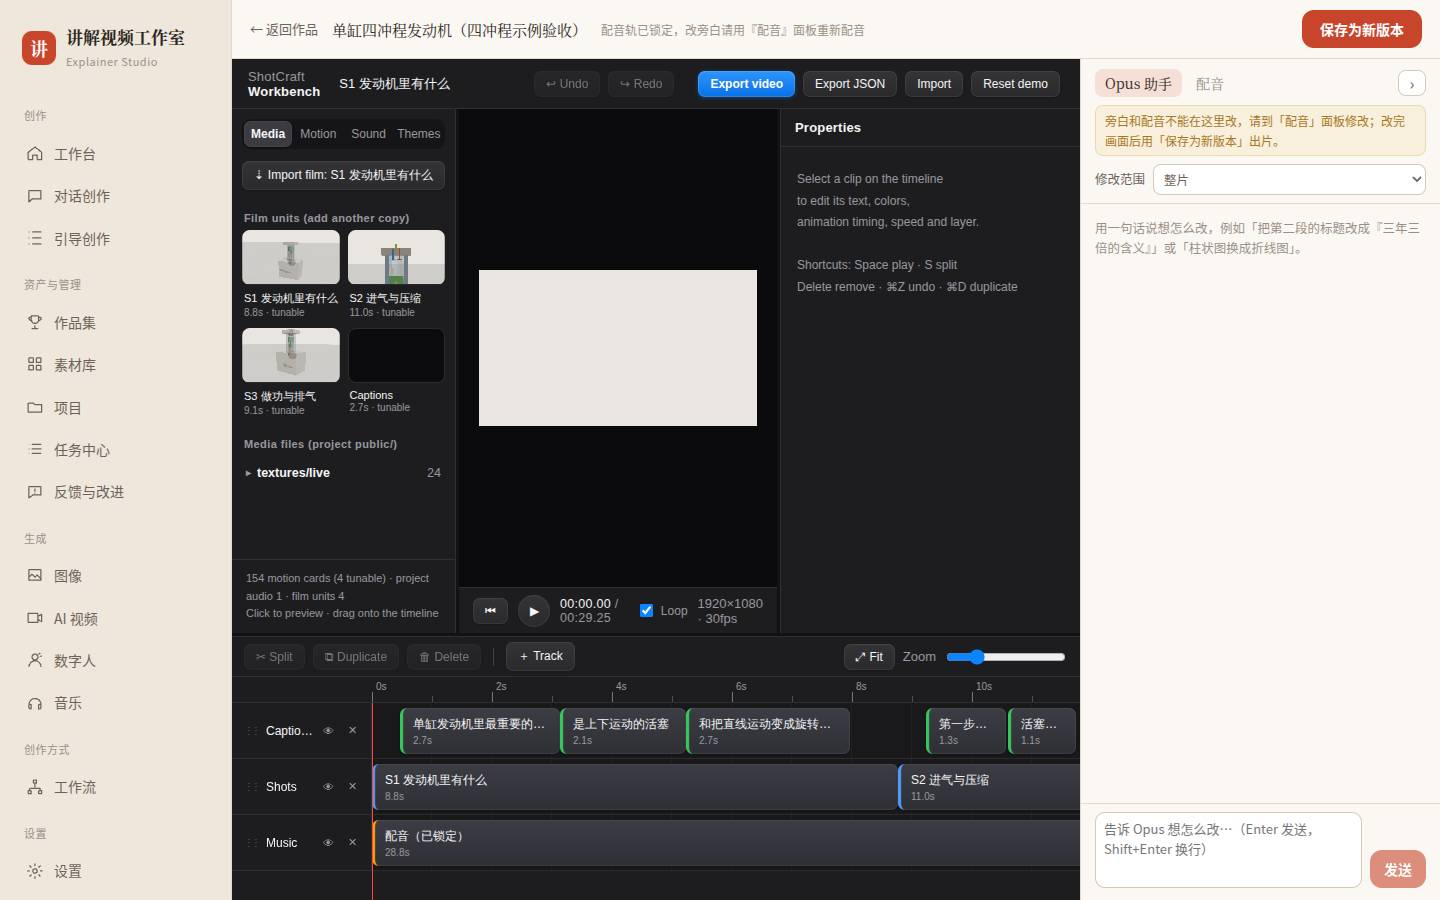
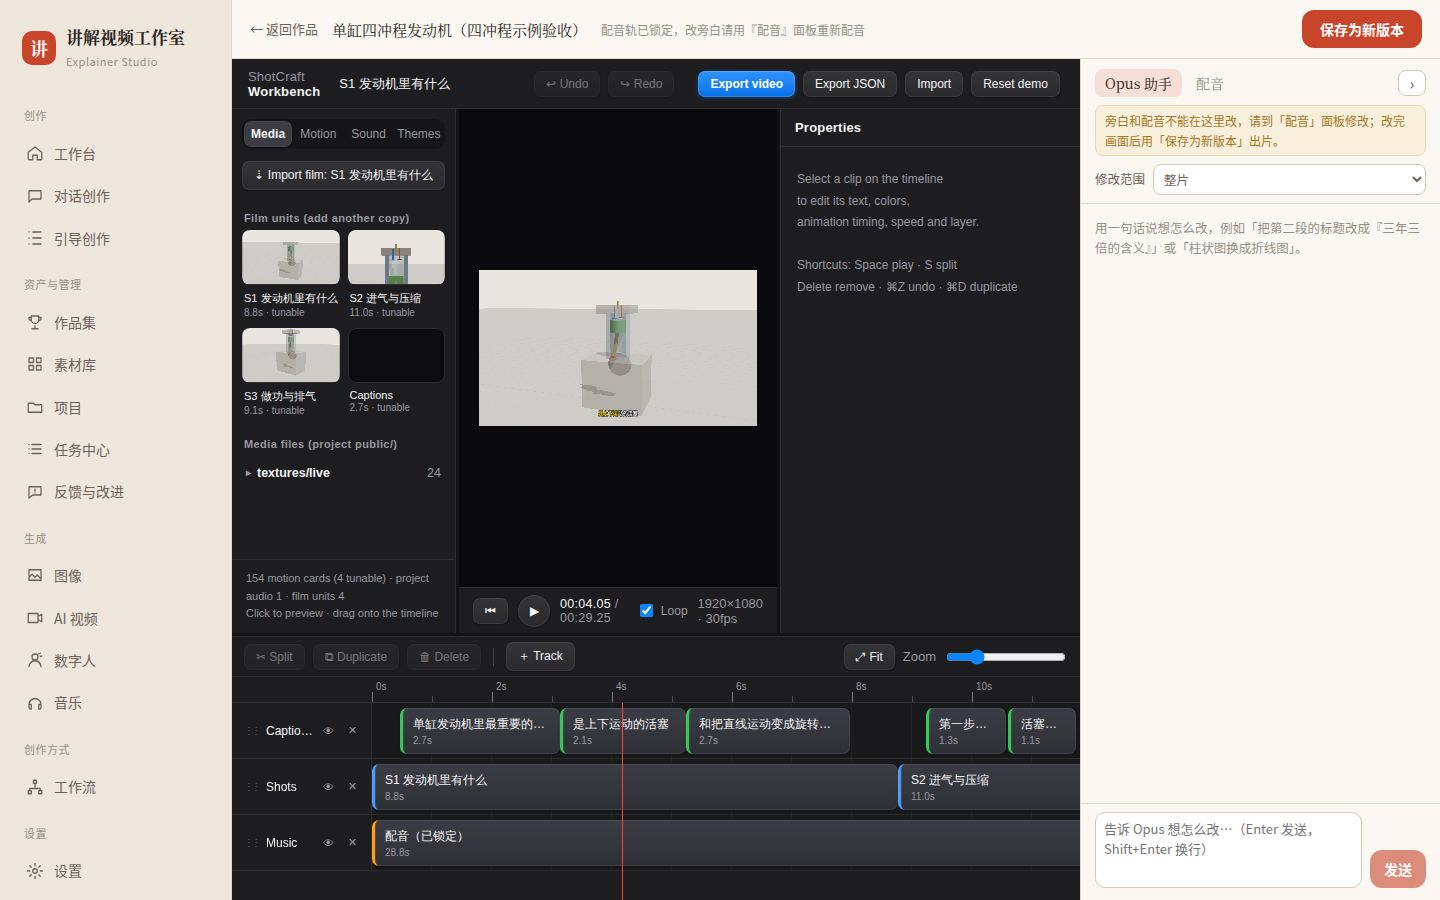
docs(previs): 动效编辑器第 0 帧只有背景色是 s01 的 fade_in（成片第 0 帧同样 Y=230 纯色）；换成拖过淡入后的截图，加截图/排查脚本

Changed region(s): [[0.3125, 0.3422, 0.5312, 0.4978], [0.4062, 0.6533, 0.4375, 0.6844], [0.0625, 0.0311, 0.0938, 0.0622]]

diff --git a/infra/previs/editor_probe.py b/infra/previs/editor_probe.py
@@ -1,0 +1,36 @@
+"""Open the motion editor in headless Chromium, log console errors / failed requests / WebGL,
+and screenshot it. Usage: probe.py <url> <out.jpg> [--gl] [--wait N]"""
+import sys
+import time
+from playwright.sync_api import sync_playwright
+
+url, out = sys.argv[1], sys.argv[2]
+gl = "--gl" in sys.argv
+wait = int(sys.argv[sys.argv.index("--wait") + 1]) if "--wait" in sys.argv else 25
+args = ["--use-angle=swiftshader", "--enable-unsafe-swiftshader", "--ignore-gpu-blocklist"] if gl else []
+
+with sync_playwright() as p:
+    b = p.chromium.launch(args=args)
+    pg = b.new_page(viewport={"width": int(sys.argv[sys.argv.index("--size")+1].split("x")[0]) if "--size" in sys.argv else 1600, "height": int(sys.argv[sys.argv.index("--size")+1].split("x")[1]) if "--size" in sys.argv else 1000})
+    pg.on("console", lambda m: m.type in ("error", "warning") and print(f"[console.{m.type}] {m.text[:400]}"))
+    pg.on("pageerror", lambda e: print(f"[pageerror] {str(e)[:400]}"))
+    pg.on("requestfailed", lambda r: print(f"[reqfailed] {r.url} {r.failure}"))
+    pg.on("response", lambda r: r.status >= 400 and print(f"[http {r.status}] {r.url}"))
+    pg.on("response", lambda r: (".glb" in r.url) and print(f"[glb {r.status}] {r.url} {r.headers.get('content-type')}"))
+    pg.goto(url, wait_until="domcontentloaded")
+    print("webgl:", pg.evaluate("""() => { const c = document.createElement('canvas');
+        const g = c.getContext('webgl2') || c.getContext('webgl');
+        if (!g) return null; const e = g.getExtension('WEBGL_debug_renderer_info');
+        return e ? g.getParameter(e.UNMASKED_RENDERER_WEBGL) : 'yes'; }"""))
+    t0 = time.time()
+    time.sleep(wait)
+    print("canvases:", pg.evaluate("() => [...document.querySelectorAll('canvas')].map(c => c.width + 'x' + c.height)"))
+    pg.screenshot(path=out, type="jpeg", quality=80)
+    print("shot", out)
+    if "--click" in sys.argv:  # x,y on the timeline ruler, then a second screenshot
+        x, y = map(int, sys.argv[sys.argv.index("--click") + 1].split(","))
+        pg.mouse.click(x, y)
+        time.sleep(wait)
+        pg.screenshot(path=out.replace(".jpg", "-seek.jpg"), type="jpeg", quality=80)
+        print("shot", out.replace(".jpg", "-seek.jpg"))
+    b.close()

diff --git a/docs/STUDIO.md b/docs/STUDIO.md
@@ -49,6 +49,7 @@
 | 渲染成片 | `Main` → `final.mp4`，`--gl=swangle` |
 
 做好的 previs3d 作品可以在动效编辑器里打开（和 Remotion 动效卡一样），导出新版本时用 swangle。
+镜头带 `style.fade_in` 时，第 0 帧是纯背景色（从背景淡入，成片也一样），编辑器刚打开时播放头在第 0 帧，所以预览只有背景色；拖到淡入之后就有模型。截图验收时先把播放头拖过淡入帧。
 
 `POST /api/jobs` 还接受 `scenes`（固定分镜，跳过写分镜，`[{id, title, narration, ...}]`）和 `previs_plan`（固定规划，只用于 previs3d 且必须同时给 `scenes`；只做静态校验，不做外形重写）。验收用的四冲程示例就是这样提交的。
 
